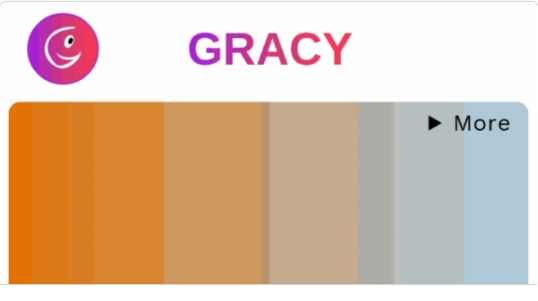
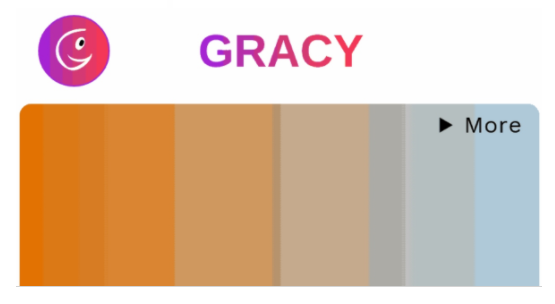
changed previous project layout into new one

diff --git a/portfolio/index.html b/portfolio/index.html
@@ -178,24 +178,27 @@
       <h2 class="section-heading">projects</h2>
 
       <div class="project-row">
-        <div class="view-project">
-          <a href="https://bit.ly/gracycolor"
-            ><svg xmlns="http://www.w3.org/2000/svg" viewBox="0 0 16 16">
-              <path
-                id="websitesvg"
-                fill="currentColor"
-                d="M0 8a8 8 0 1 1 16 0A8 8 0 0 1 0 8zm7.5-6.923c-.67.204-1.335.82-1.887 1.855-.143.268-.276.56-.395.872.705.157 1.472.257 2.282.287V1.077zM4.249 3.539c.142-.384.304-.744.481-1.078a6.7 6.7 0 0 1 .597-.933A7.01 7.01 0 0 0 3.051 3.05c.362.184.763.349 1.198.49zM3.509 7.5c.036-1.07.188-2.087.436-3.008a9.124 9.124 0 0 1-1.565-.667A6.964 6.964 0 0 0 1.018 7.5h2.49zm1.4-2.741a12.344 12.344 0 0 0-.4 2.741H7.5V5.091c-.91-.03-1.783-.145-2.591-.332zM8.5 5.09V7.5h2.99a12.342 12.342 0 0 0-.399-2.741c-.808.187-1.681.301-2.591.332zM4.51 8.5c.035.987.176 1.914.399 2.741A13.612 13.612 0 0 1 7.5 10.91V8.5H4.51zm3.99 0v2.409c.91.03 1.783.145 2.591.332.223-.827.364-1.754.4-2.741H8.5zm-3.282 3.696c.12.312.252.604.395.872.552 1.035 1.218 1.65 1.887 1.855V11.91c-.81.03-1.577.13-2.282.287zm.11 2.276a6.696 6.696 0 0 1-.598-.933 8.853 8.853 0 0 1-.481-1.079 8.38 8.38 0 0 0-1.198.49 7.01 7.01 0 0 0 2.276 1.522zm-1.383-2.964A13.36 13.36 0 0 1 3.508 8.5h-2.49a6.963 6.963 0 0 0 1.362 3.675c.47-.258.995-.482 1.565-.667zm6.728 2.964a7.009 7.009 0 0 0 2.275-1.521 8.376 8.376 0 0 0-1.197-.49 8.853 8.853 0 0 1-.481 1.078 6.688 6.688 0 0 1-.597.933zM8.5 11.909v3.014c.67-.204 1.335-.82 1.887-1.855.143-.268.276-.56.395-.872A12.63 12.63 0 0 0 8.5 11.91zm3.555-.401c.57.185 1.095.409 1.565.667A6.963 6.963 0 0 0 14.982 8.5h-2.49a13.36 13.36 0 0 1-.437 3.008zM14.982 7.5a6.963 6.963 0 0 0-1.362-3.675c-.47.258-.995.482-1.565.667.248.92.4 1.938.437 3.008h2.49zM11.27 2.461c.177.334.339.694.482 1.078a8.368 8.368 0 0 0 1.196-.49 7.01 7.01 0 0 0-2.275-1.52c.218.283.418.597.597.932zm-.488 1.343a7.765 7.765 0 0 0-.395-.872C9.835 1.897 9.17 1.282 8.5 1.077V4.09c.81-.03 1.577-.13 2.282-.287z"
-              /></svg
-          ></a>
-          <a href="https://github.com/thevipuljha/make-my-color">
-            <svg xmlns="http://www.w3.org/2000/svg" viewBox="0 0 16 16">
-              <path
-                id="githubsvg"
-                fill="currentColor"
-                d="M8 0C3.58 0 0 3.58 0 8c0 3.54 2.29 6.53 5.47 7.59.4.07.55-.17.55-.38 0-.19-.01-.82-.01-1.49-2.01.37-2.53-.49-2.69-.94-.09-.23-.48-.94-.82-1.13-.28-.15-.68-.52-.01-.53.63-.01 1.08.58 1.23.82.72 1.21 1.87.87 2.33.66.07-.52.28-.87.51-1.07-1.78-.2-3.64-.89-3.64-3.95 0-.87.31-1.59.82-2.15-.08-.2-.36-1.02.08-2.12 0 0 .67-.21 2.2.82.64-.18 1.32-.27 2-.27.68 0 1.36.09 2 .27 1.53-1.04 2.2-.82 2.2-.82.44 1.1.16 1.92.08 2.12.51.56.82 1.27.82 2.15 0 3.07-1.87 3.75-3.65 3.95.29.25.54.73.54 1.48 0 1.07-.01 1.93-.01 2.2 0 .21.15.46.55.38A8.012 8.012 0 0 0 16 8c0-4.42-3.58-8-8-8z"
-              />
-            </svg>
-          </a>
+        <div class="project-title-row">
+          <h3 class="project-title">gracy</h3>
+          <div class="view-project">
+            <a href="https://bit.ly/gracycolor"
+              ><svg xmlns="http://www.w3.org/2000/svg" viewBox="0 0 16 16">
+                <path
+                  id="websitesvg"
+                  fill="currentColor"
+                  d="M0 8a8 8 0 1 1 16 0A8 8 0 0 1 0 8zm7.5-6.923c-.67.204-1.335.82-1.887 1.855-.143.268-.276.56-.395.872.705.157 1.472.257 2.282.287V1.077zM4.249 3.539c.142-.384.304-.744.481-1.078a6.7 6.7 0 0 1 .597-.933A7.01 7.01 0 0 0 3.051 3.05c.362.184.763.349 1.198.49zM3.509 7.5c.036-1.07.188-2.087.436-3.008a9.124 9.124 0 0 1-1.565-.667A6.964 6.964 0 0 0 1.018 7.5h2.49zm1.4-2.741a12.344 12.344 0 0 0-.4 2.741H7.5V5.091c-.91-.03-1.783-.145-2.591-.332zM8.5 5.09V7.5h2.99a12.342 12.342 0 0 0-.399-2.741c-.808.187-1.681.301-2.591.332zM4.51 8.5c.035.987.176 1.914.399 2.741A13.612 13.612 0 0 1 7.5 10.91V8.5H4.51zm3.99 0v2.409c.91.03 1.783.145 2.591.332.223-.827.364-1.754.4-2.741H8.5zm-3.282 3.696c.12.312.252.604.395.872.552 1.035 1.218 1.65 1.887 1.855V11.91c-.81.03-1.577.13-2.282.287zm.11 2.276a6.696 6.696 0 0 1-.598-.933 8.853 8.853 0 0 1-.481-1.079 8.38 8.38 0 0 0-1.198.49 7.01 7.01 0 0 0 2.276 1.522zm-1.383-2.964A13.36 13.36 0 0 1 3.508 8.5h-2.49a6.963 6.963 0 0 0 1.362 3.675c.47-.258.995-.482 1.565-.667zm6.728 2.964a7.009 7.009 0 0 0 2.275-1.521 8.376 8.376 0 0 0-1.197-.49 8.853 8.853 0 0 1-.481 1.078 6.688 6.688 0 0 1-.597.933zM8.5 11.909v3.014c.67-.204 1.335-.82 1.887-1.855.143-.268.276-.56.395-.872A12.63 12.63 0 0 0 8.5 11.91zm3.555-.401c.57.185 1.095.409 1.565.667A6.963 6.963 0 0 0 14.982 8.5h-2.49a13.36 13.36 0 0 1-.437 3.008zM14.982 7.5a6.963 6.963 0 0 0-1.362-3.675c-.47.258-.995.482-1.565.667.248.92.4 1.938.437 3.008h2.49zM11.27 2.461c.177.334.339.694.482 1.078a8.368 8.368 0 0 0 1.196-.49 7.01 7.01 0 0 0-2.275-1.52c.218.283.418.597.597.932zm-.488 1.343a7.765 7.765 0 0 0-.395-.872C9.835 1.897 9.17 1.282 8.5 1.077V4.09c.81-.03 1.577-.13 2.282-.287z"
+                /></svg
+            ></a>
+            <a href="https://github.com/thevipuljha/make-my-color">
+              <svg xmlns="http://www.w3.org/2000/svg" viewBox="0 0 16 16">
+                <path
+                  id="githubsvg"
+                  fill="currentColor"
+                  d="M8 0C3.58 0 0 3.58 0 8c0 3.54 2.29 6.53 5.47 7.59.4.07.55-.17.55-.38 0-.19-.01-.82-.01-1.49-2.01.37-2.53-.49-2.69-.94-.09-.23-.48-.94-.82-1.13-.28-.15-.68-.52-.01-.53.63-.01 1.08.58 1.23.82.72 1.21 1.87.87 2.33.66.07-.52.28-.87.51-1.07-1.78-.2-3.64-.89-3.64-3.95 0-.87.31-1.59.82-2.15-.08-.2-.36-1.02.08-2.12 0 0 .67-.21 2.2.82.64-.18 1.32-.27 2-.27.68 0 1.36.09 2 .27 1.53-1.04 2.2-.82 2.2-.82.44 1.1.16 1.92.08 2.12.51.56.82 1.27.82 2.15 0 3.07-1.87 3.75-3.65 3.95.29.25.54.73.54 1.48 0 1.07-.01 1.93-.01 2.2 0 .21.15.46.55.38A8.012 8.012 0 0 0 16 8c0-4.42-3.58-8-8-8z"
+                />
+              </svg>
+            </a>
+          </div>
         </div>
         <div class="project-snap">
           <img src="assets/images/gracy-thumbnail.png" alt="" />
@@ -211,20 +214,29 @@
             <use xlink:href="#gitsvg" />
           </svg>
         </div>
+        <div class="project-decription-div">
+          <p class="project-decription">
+            A CSS gradient generator tool with lots of features. <br />I call it
+            GRAdient Creator for You
+          </p>
+        </div>
       </div>
 
       <div class="project-row">
-        <div class="view-project">
-          <a href="https://bit.ly/matchblock">
-            <svg xmlns="http://www.w3.org/2000/svg" viewBox="0 0 16 16">
-              <use xlink:href="#websitesvg" />
-            </svg>
-          </a>
-          <a href="https://github.com/thevipuljha/matchingblocks">
-            <svg xmlns="http://www.w3.org/2000/svg" viewBox="0 0 16 16">
-              <use xlink:href="#githubsvg" />
-            </svg>
-          </a>
+        <div class="project-title-row">
+          <h3 class="project-title">matching blocks</h3>
+          <div class="view-project">
+            <a href="https://bit.ly/matchblock">
+              <svg xmlns="http://www.w3.org/2000/svg" viewBox="0 0 16 16">
+                <use xlink:href="#websitesvg" />
+              </svg>
+            </a>
+            <a href="https://github.com/thevipuljha/matchingblocks">
+              <svg xmlns="http://www.w3.org/2000/svg" viewBox="0 0 16 16">
+                <use xlink:href="#githubsvg" />
+              </svg>
+            </a>
+          </div>
         </div>
         <div class="project-snap">
           <img src="assets/images/matching-blocks-thumbnail.png" alt="" />
@@ -240,6 +252,11 @@
           <svg xmlns="http://www.w3.org/2000/svg" viewBox="0 0 24 24">
             <use xlink:href="#gitsvg" />
           </svg>
+        </div>
+        <div class="project-decription-div">
+          <p class="project-decription">
+            Simple game of pairing similar cards from a bunch of shuffled ones
+          </p>
         </div>
       </div>
     </div>
